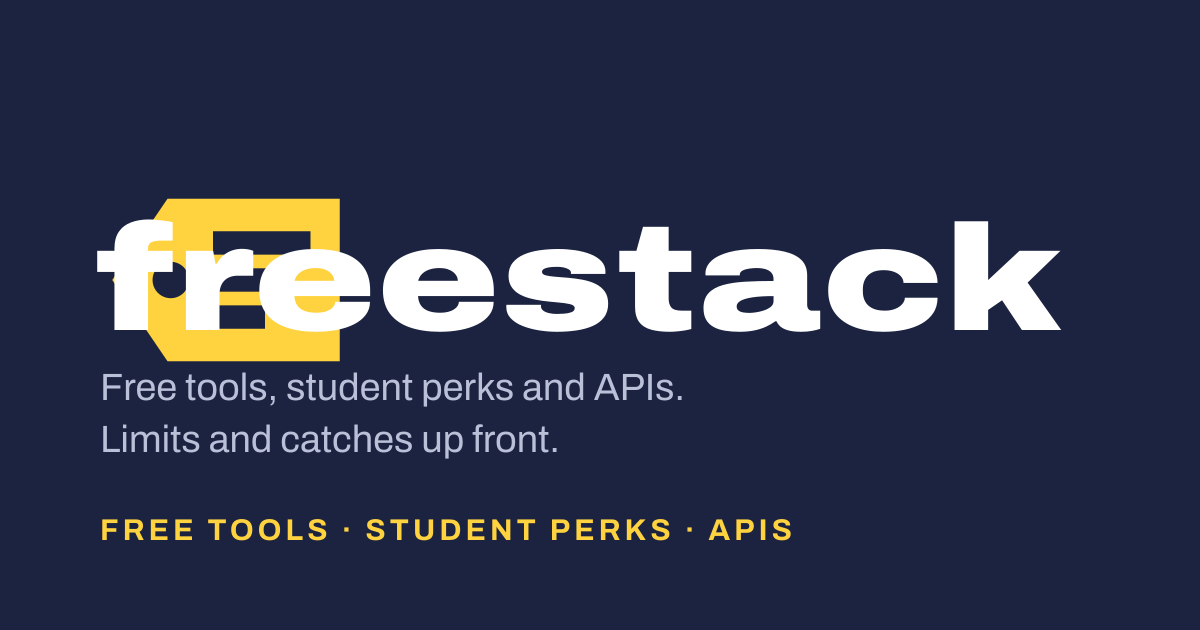
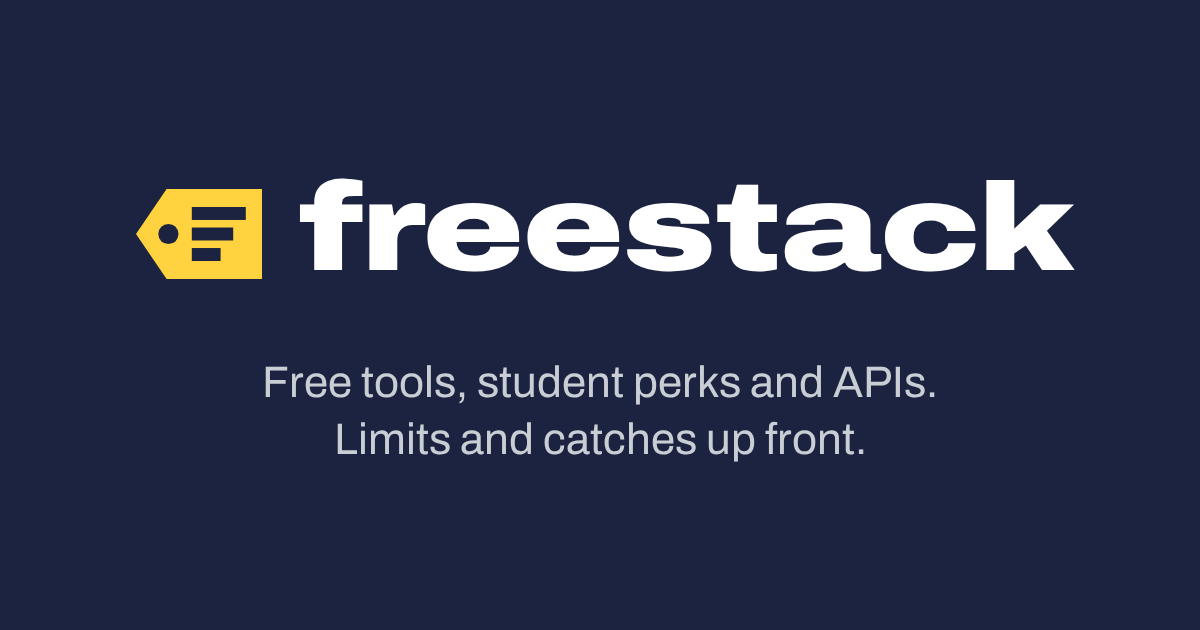
fix(brand): redesign the social card and render it from source
The old og.png had the wordmark sitting on top of the logo mark and a
tagline repeated in a second caps line. The card is now the mark and
wordmark side by side with one tagline, in Ink and Archivo Expanded
Black, inside the central 1080x510 so cropped previews keep it whole.

scripts/brand/og.html is the source; `pnpm brand:og` renders it with the
Playwright Chromium and inlines public/brand/logo-mark.svg. The shell
also emits og:image:type, og:image:alt and twitter:image:alt.

diff --git a/scripts/brand/og.html b/scripts/brand/og.html
@@ -1,0 +1,76 @@
+<!doctype html>
+<!--
+  Source for public/brand/og.png (1200x630). Rendered by scripts/brand/og.mjs.
+  Tokens and type follow DESIGN.md: Ink background, Archivo Expanded Black wordmark.
+  Everything sits inside the central 1080x510 so cropped previews keep it whole.
+-->
+<html lang="en">
+  <head>
+    <meta charset="utf-8" />
+    <link rel="preconnect" href="https://fonts.googleapis.com" />
+    <link rel="preconnect" href="https://fonts.gstatic.com" crossorigin />
+    <link
+      href="https://fonts.googleapis.com/css2?family=Archivo:wdth,wght@62..125,400..900&display=swap"
+      rel="stylesheet"
+    />
+    <style>
+      :root {
+        --ink: #1c2340;
+        --label: #ffffff;
+        --on-ink-muted: #c9cdd4;
+      }
+      * {
+        margin: 0;
+        box-sizing: border-box;
+      }
+      body {
+        width: 1200px;
+        height: 630px;
+        background: var(--ink);
+        font-family: "Archivo", sans-serif;
+        display: grid;
+        place-items: center;
+      }
+      .card {
+        display: flex;
+        flex-direction: column;
+        align-items: center;
+        gap: 48px;
+      }
+      .lockup {
+        display: flex;
+        align-items: center;
+        gap: 28px;
+      }
+      .lockup svg {
+        width: 144px;
+        height: 144px;
+      }
+      .wordmark {
+        color: var(--label);
+        font-weight: 900;
+        font-stretch: 125%;
+        font-size: 124px;
+        letter-spacing: -0.01em;
+        line-height: 1;
+        /* optical nudge: x-height sits low against the tag */
+        padding-bottom: 10px;
+      }
+      .tagline {
+        color: var(--on-ink-muted);
+        font-size: 44px;
+        line-height: 1.3;
+        text-align: center;
+      }
+    </style>
+  </head>
+  <body>
+    <main class="card">
+      <div class="lockup">
+        <!-- LOGO_MARK -->
+        <span class="wordmark">freestack</span>
+      </div>
+      <p class="tagline">Free tools, student perks and APIs.<br />Limits and catches up front.</p>
+    </main>
+  </body>
+</html>

diff --git a/tests/e2e/fresh/shell.spec.ts b/tests/e2e/fresh/shell.spec.ts
@@ -123,6 +123,7 @@ test.describe("head meta", () => {
     // The e2e builds run without SITE_URL, so absolute URL and image stay off.
     await expect(page.locator('meta[property="og:image"]')).toHaveCount(0);
     await expect(page.locator('meta[property="og:url"]')).toHaveCount(0);
+    await expect(page.locator('meta[property="og:image:alt"]')).toHaveCount(0);
   });
 });
 
